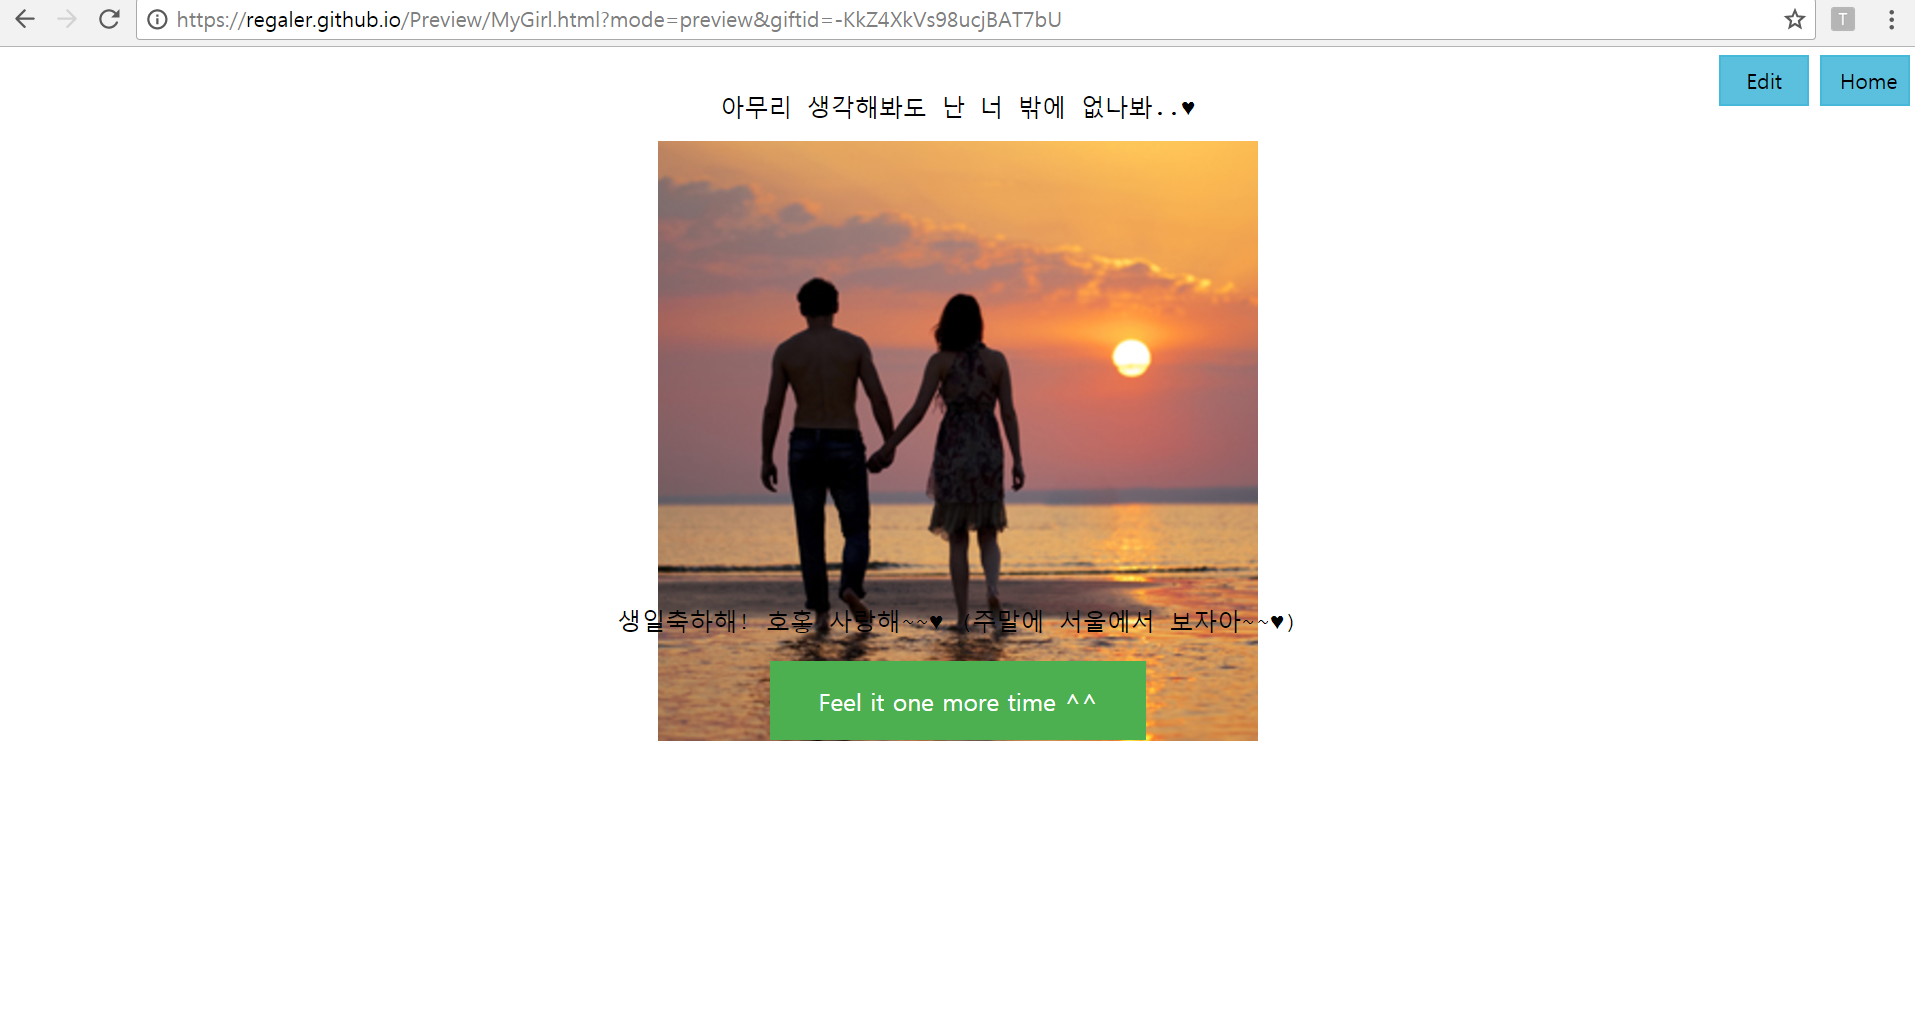
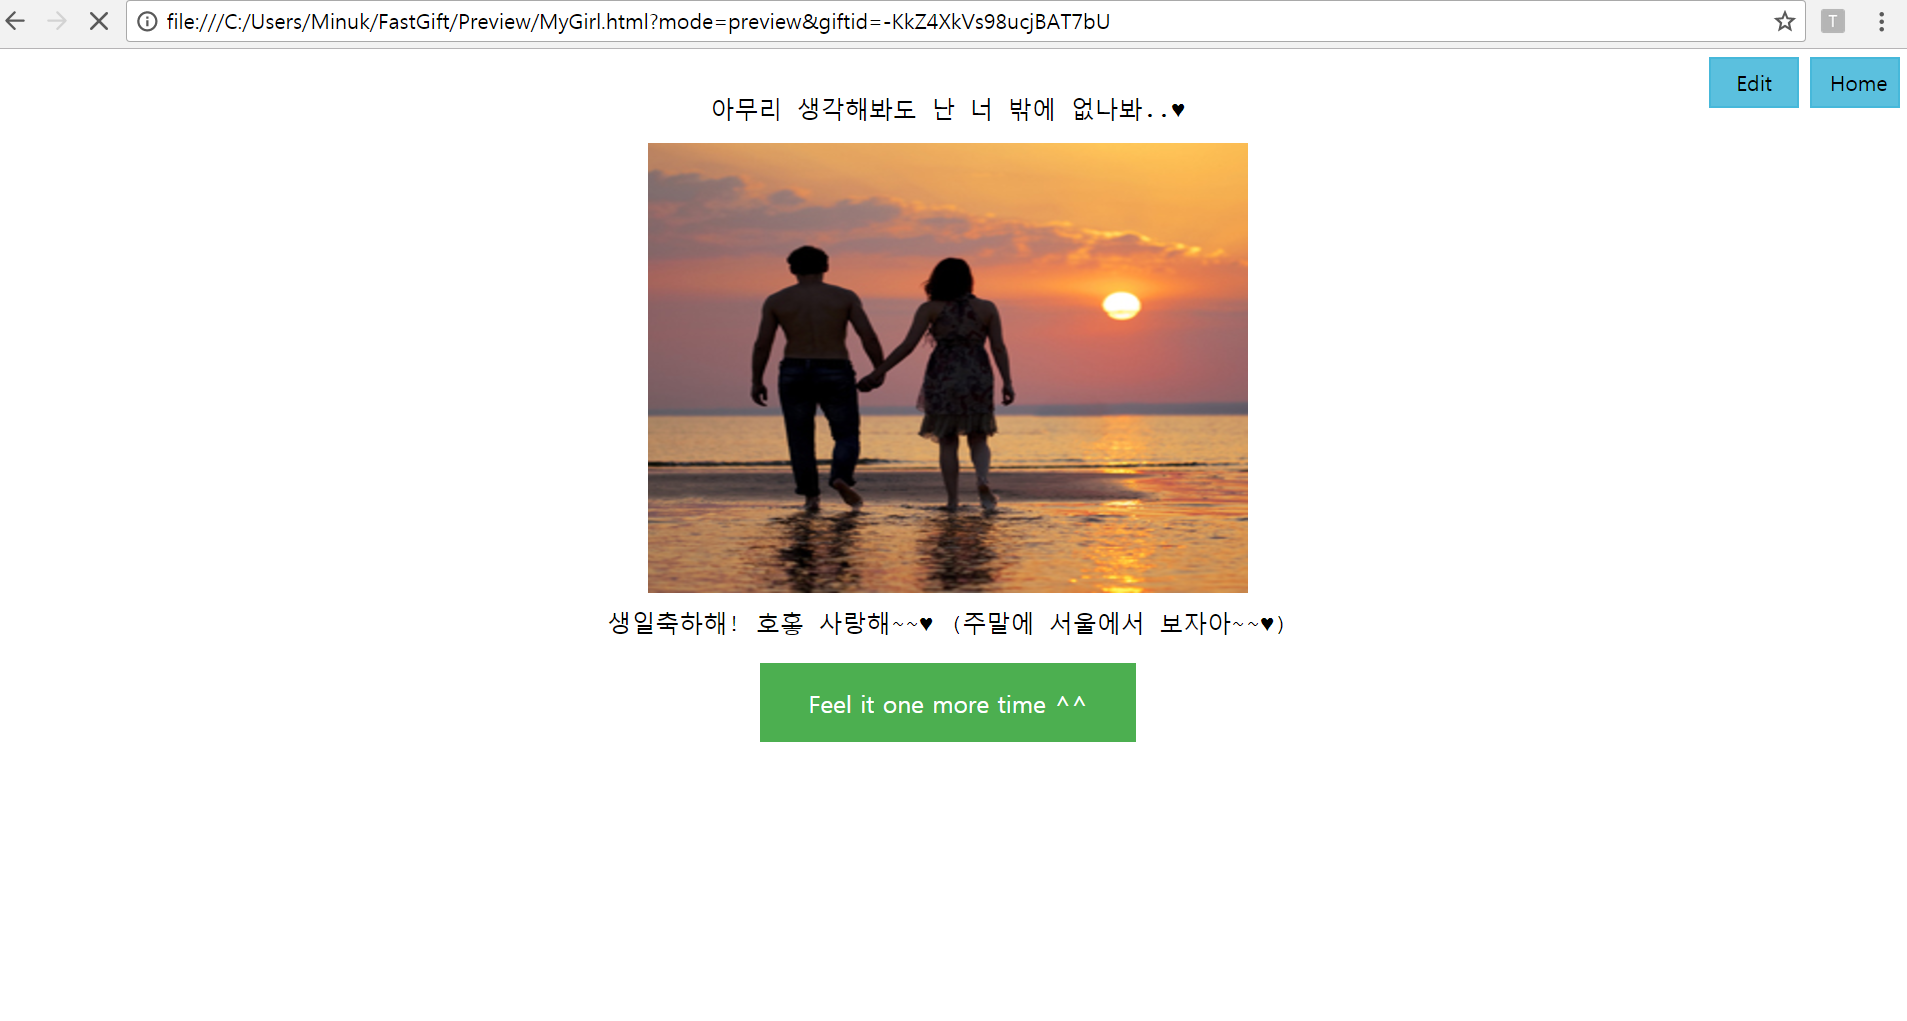
Bug fix in Preview/MyGirl.html
The height of the image was set auto.
That made some images to stretch too much.
So I changed it to 100%.

Changed region(s): [[0.3094, 0.1216, 0.6807, 0.7294], [0.0, 0.0, 1.0, 0.0912], [0.3713, 0.0912, 0.6188, 0.1216]]

diff --git a/Editing/MyGirl.html b/Editing/MyGirl.html
@@ -39,7 +39,7 @@
   <link href="../css/index.css" rel="stylesheet">
   <link rel="stylesheet" href="https://fonts.googleapis.com/icon?family=Material+Icons">
 
-  <link        rel="stylesheet" href="../css/mygirl.css">
+  <link rel="stylesheet" href="../css/mygirl.css">
   <script type="text/javascript" src="../js/mygirl.js"></script>
 </head>
 <body>
@@ -152,7 +152,7 @@
             <div id="wrapper_input3">
               <img id="input3_img" src="../images/add_image.png" style="width: 100px; height: auto" ></img>
               <!-- <h2 id="input6-outer" style="margin-top: 3px;margin-left: 3px;">+Image</h2> -->
-              <img id="output3" style="display: none; width: 100%; height: auto" ></img>
+              <img id="output3" style="display: none; width: 100%; height: 100%" ></img>
             </div>  
           </center> 
           

diff --git a/Preview/MyGirl.html b/Preview/MyGirl.html
@@ -90,7 +90,7 @@
         <div id="wrapper_input3" style="background-color:rgba(255, 0, 0, 0)">
           <img id="input3_img" src="../images/add_image.png" style="width: 100px; height: auto" ></img>
           <!-- <h2 id="input6-outer" style="margin-top: 3px;margin-left: 3px;">+Image</h2> -->
-          <img id="output3" style="display: none; width: 100%; height: auto" ></img>
+          <img id="output3" style="display: none; width: 100%; height: 100%;" ></img>
         </div>  
       </center>
       
